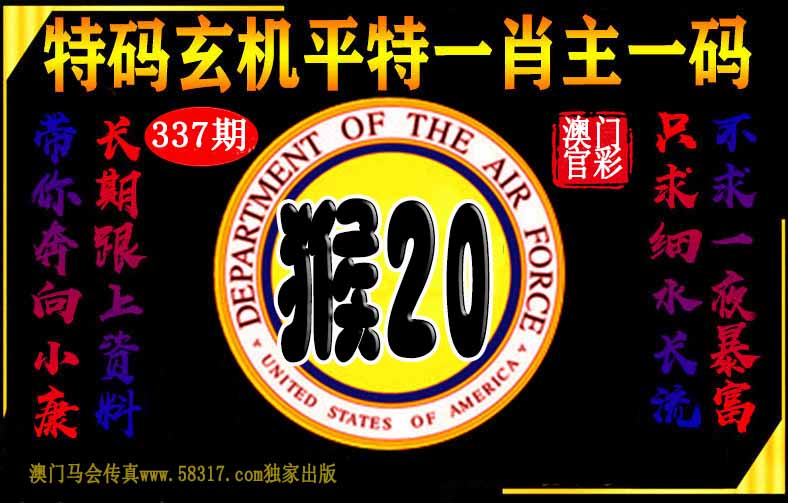
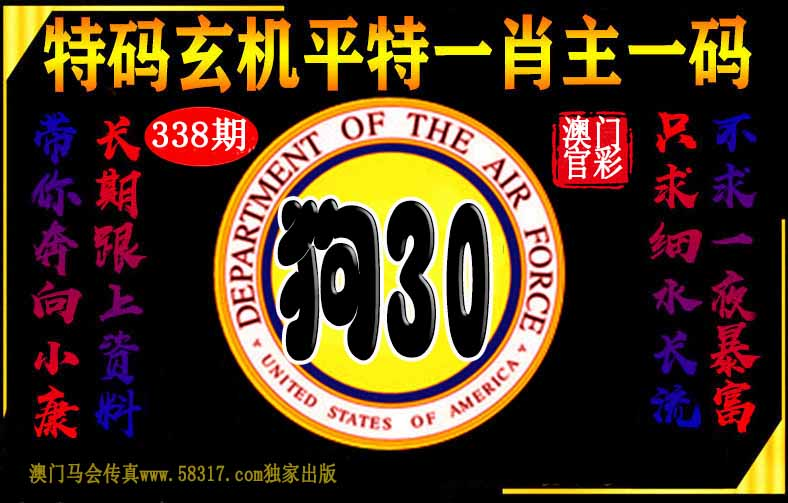
Update:  2023.12.04 14:20:40

Changed region(s): [[0.335, 0.3877, 0.5787, 0.7455], [0.2437, 0.2386, 0.2741, 0.2982], [0.5178, 0.3877, 0.5482, 0.4175]]

diff --git a/Script/Src/xjw/杀两肖图.js b/Script/Src/xjw/杀两肖图.js
@@ -57,6 +57,23 @@ document.writeln("		");
 
 
 
+document.writeln("	<!--开始-->");
+document.writeln("				<tr style=\'box-sizing: border-box;\'>");
+document.writeln("					<td height=\'40\' style=\'box-sizing: border-box;\'>");
+document.writeln("			<p align=\'center\' style=\'box-sizing: border-box; padding: 0px; margin: 0px;\'>");
+document.writeln("			<font size=\'4\' style=\'margin: 0px; padding: 0px;\'>");
+document.writeln("			338期玄机网禁两肖<font color=\'#FF0000\'>【羊鼠】</font>特开<font color=\'#0000FF\'>鼠16</font>准<br>");
+document.writeln("			338期澳门杀两肖图<font color=\'#FF0000\'>【鼠龙】</font>特开<font color=\'#0000FF\'>鼠16</font>准<br>");
+document.writeln("			338期澳门图库禁肖<font color=\'#FF0000\'>【龙虎】</font>特开<font color=\'#0000FF\'>鼠16</font>准</font></font></p></td>");
+document.writeln("		</tr>");
+document.writeln("<!--推广-->");
+document.writeln("				<tr style=\'box-sizing: border-box;\'>");
+document.writeln("					<td height=\'40\' style=\'box-sizing: border-box;\' bgcolor=\'#FFFF00\'>");
+document.writeln("			<p align=\'center\' style=\'box-sizing: border-box; padding: 0px; margin: 0px;\'>");
+document.writeln("			<a target=\'_blank\' href=\'https://j.1999xz.com:1999/\' style=\'text-decoration: none\'><img src=/yyy123.gif style=\'width:20px\' height=\'19\'><span style=font-family:楷体;color:#00f><font style=\'font-size: 15pt\'>点击投注澳门六合彩</font></span><span style=font-family:楷体;font-size:17pt;><font color=\'#FF0000\'>1999.cc</font></span></a></strong>");
+document.writeln("</p></td></tr>");
+document.writeln("<!--结束-->	");
+
 
 document.writeln("	<!--开始-->");
 document.writeln("				<tr style=\'box-sizing: border-box;\'>");
